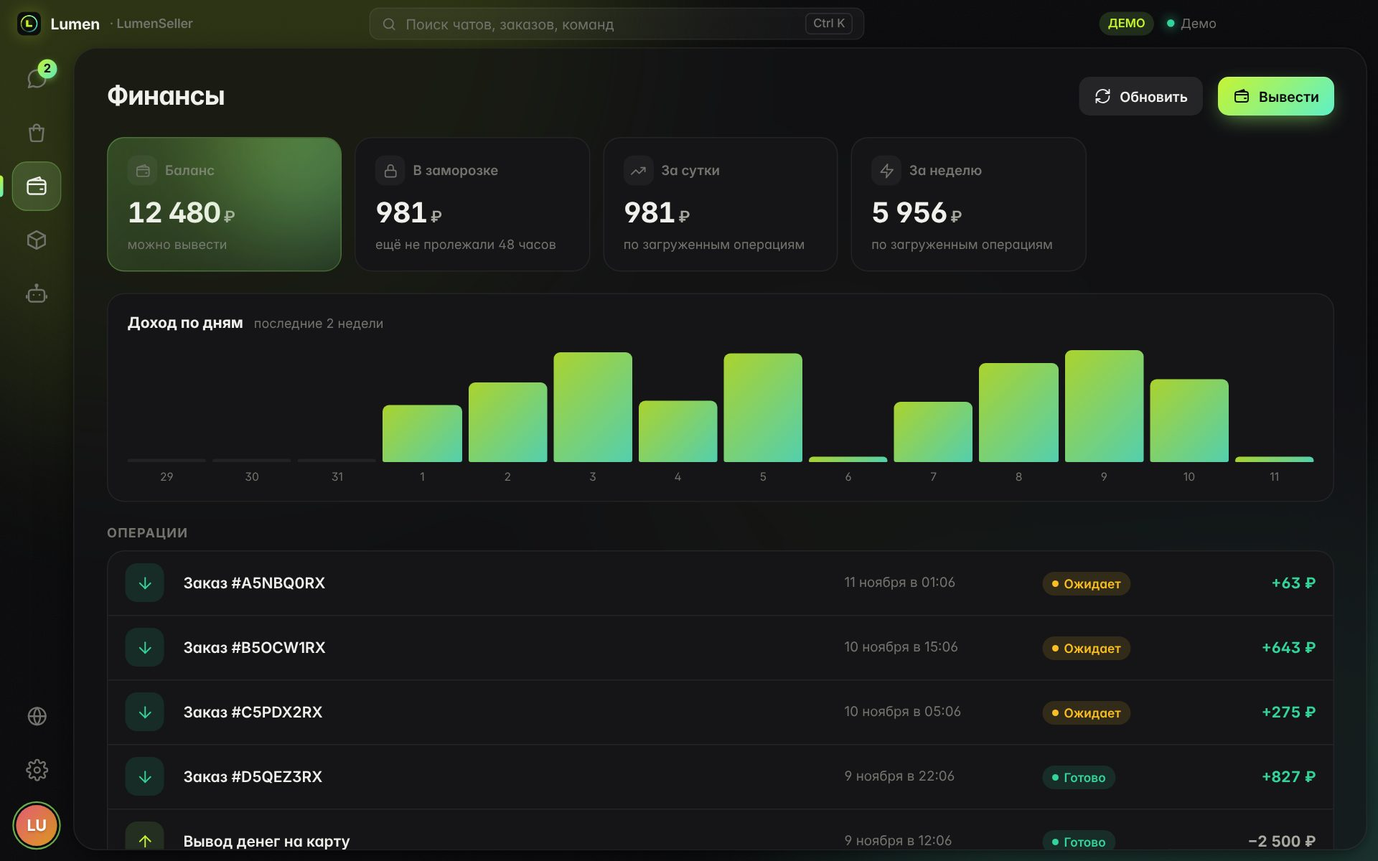
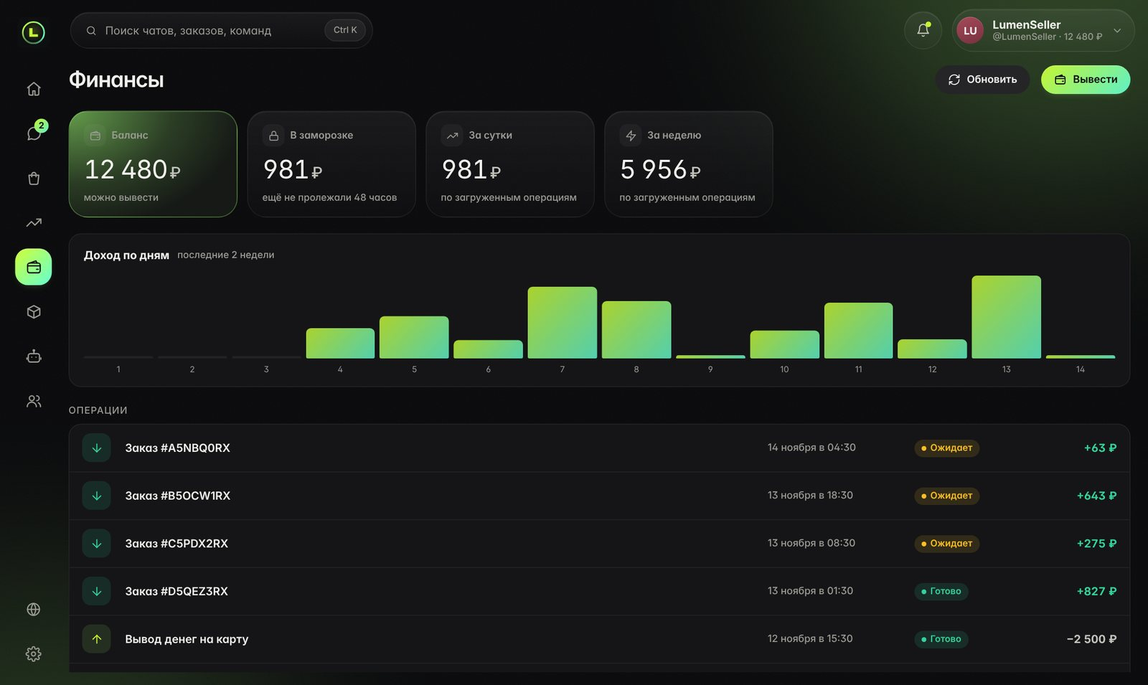
Add files via upload

diff --git a/test/parse.test.html b/test/parse.test.html
@@ -1,4 +1,5 @@
-<!doctype html><meta charset="utf-8"><title>parse tests</title>
+<!doctype html><!-- © 2026 Lumen. Все права защищены. Копирование, изменение и распространение этого кода запрещены без разрешения автора (см. LICENSE). -->
+<meta charset="utf-8"><title>parse tests</title>
 <script type="module">
 import * as P from '../renderer/js/fp/parse.js';
 import { parseFpDate, richText, findOrderIds } from '../renderer/js/core/util.js';

diff --git a/test/fp.test.js b/test/fp.test.js
@@ -1,3 +1,4 @@
+// © 2026 Lumen. Все права защищены. Копирование, изменение и распространение этого кода запрещены без разрешения автора (см. LICENSE).
 // Проверка FunPay-клиента на локальном мок-сервере: вход, куки, 428/golden_seal, runner, csrf, редиректы, загрузка.
 const http = require('http');
 const assert = require('assert');

diff --git a/test/client.test.html b/test/client.test.html
@@ -1,4 +1,5 @@
-<!doctype html><meta charset="utf-8"><title>client tests</title>
+<!doctype html><!-- © 2026 Lumen. Все права защищены. Копирование, изменение и распространение этого кода запрещены без разрешения автора (см. LICENSE). -->
+<meta charset="utf-8"><title>client tests</title>
 <script type="module">
 const calls = [];
 let raiseN = 0;

diff --git a/README.md b/README.md
@@ -6,13 +6,13 @@
 
 **Красивый клиент FunPay для компьютера**
 
-Чаты, сделки, финансы и лоты в одном окне. Автовыдача, автоответы, автоподнятие, обращения в поддержку и плагины — прямо в приложении.
+Главная со всеми продажами, чаты, сделки, статистика, финансы и лоты в одном окне. Автовыдача, автоответы, автоподнятие, обращения в поддержку и плагины — прямо в приложении.
 
 [**⬇ Скачать для Windows и macOS**](../../releases/latest) · [🧩 Плагины](docs/PLUGINS.md) · [Сообщить о баге](../../issues/new/choose)
 
 </div>
 
-![Чаты](docs/screens/chats.jpg)
+![Lumen](docs/screens/home.jpg)
 
 > [!NOTE]
 > Lumen работает с FunPay через твой аккаунт. `golden_key` и куки хранятся **только у тебя на компьютере** в зашифрованном виде и никуда не отправляются.
@@ -31,6 +31,7 @@
 - [Как устроен проект](#как-устроен-проект)
 - [Как выпустить новую версию](#как-выпустить-новую-версию)
 - [Вопросы](#вопросы)
+- [Лицензия](#лицензия)
 
 ---
 
@@ -79,46 +80,52 @@ xattr -cr /Applications/Lumen.app
 
 ## Что умеет
 
-**💬 Чаты**
-- Папки «Все / Новые / Закреплённые / Архив», поиск, плавная перестановка чатов при новых сообщениях
-- Правый клик по чату: закрепить, без звука, архив, прочитано, заметка о покупателе, цветная метка
-- В шапке чата — аватарка собеседника и лот, который он смотрит
-- Ответ с цитатой, копирование, кликабельные ссылки и номера заказов
-- Картинки: скрепка, `Ctrl+V`, перетаскивание в окно; просмотр на весь экран с зумом
-- Оповещения FunPay как карточки «Новый заказ / Выполнен / Возврат» с кнопкой «Открыть заказ»
-- **Отправить позже**: кнопка с часиками — через 15 минут, час, завтра или в своё время
-- Подгрузка старых сообщений при прокрутке вверх
+**🏠 Главная**
+- Выручка с графиком за год, 30 дней, 7 дней или сегодня — наведи, увидишь сумму и заказы за день
+- Заказы по дням недели, кошелёк с «Историей» и «Вывести», последние продажи и кто ждёт ответа
+- Карточка автоматики: работает ли, сколько выдано сегодня
+
+**💬 Чаты в три колонки**
+- Справа — покупатель: сколько заказов у тебя, сколько потратил, статус (новый, постоянный, VIP), **что оплатил прямо сейчас** и какой лот смотрит
+- Папки «Все / Новые / Закреп / Архив», поиск, заметки и цветные метки, ответ с цитатой
+- Картинки: скрепка, `Ctrl+V`, перетаскивание; просмотр на весь экран
+- **Отправить позже** — через 15 минут, час, завтра или в своё время
 
 **⚡ Шаблоны**
-- Кнопки шаблонов над полем ввода, `Alt+1…9`, поиск по `/` в начале сообщения
+- Кнопки над полем ввода, `Alt+1…9`, поиск по `/` в начале сообщения
 - Переменные: `$username` `$welcome` `$order_id` `$order_link` `$lot_name` `$my_name` `$date` `$time`
-- **Не беспокоить**: вручную или по расписанию, один автоответ в каждый чат. Не пишет, если бот или автоматика уже ответили
-- **ИИ-помощник** (по желанию): кнопка ✨ переписывает черновик вежливо. Подходит любой OpenAI-совместимый сервис
+- **Не беспокоить** вручную или по расписанию; **ИИ-помощник** ✨ (по желанию)
 
-**📦 Сделки и деньги**
-- Продажи и покупки: фильтр по статусу, поиск, подгрузка
-- Заказ: детали и описание, возврат, подтверждение, отзыв, ответ на отзыв (изменить / удалить)
-- **Статистика продаж** за сегодня / 7 дней / 30 дней / всё время: заработок, средний чек, лучший покупатель, популярный товар
-- **В поддержку**: покупатель забыл подтвердить заказ — выбираешь все заказы или только выполненные, Lumen сам отправляет обращения в поддержку FunPay (по 5 заказов в каждом)
-- Финансы: баланс, заморозка, доход за сутки и неделю, график по дням, подробности каждой операции
+**📦 Сделки**
+- Продажи и покупки: фильтр по статусу и по любой игре FunPay, поиск
+- **Мини-чат**: нажал на заказ — сбоку переписка с покупателем. Видно, выдал ли товар; можно ответить и сразу отправить в поддержку
+- **В поддержку**: покупатель забыл подтвердить заказ — Lumen сам отправит обращения в поддержку FunPay
 
-**🗂 Лоты**
-- Включить / выключить, сменить цену прямо в списке, удалить
-- Поднять одну игру или всё сразу; **автоподнятие** ждёт ровно столько, сколько просит FunPay
+**📈 Статистика**
+- Выручка, заказы, покупатели, средний чек со сравнением с прошлым периодом
+- «Когда покупают» — по часам и дням недели, топ товаров, разделы, календарь, покупатели
+
+**💰 Финансы и 🗂 Лоты**
+- Баланс, заморозка, доход по дням, все операции
+- Включить / выключить лот, сменить цену в списке, поднять всё сразу; **автоподнятие** ждёт ровно столько, сколько просит FunPay
 
 **🔔 Уведомления**
-- Свои всплывающие карточки в любом углу экрана или системные уведомления
-- Приходят, даже если сообщение уже прочитал другой бот, телефон или сайт
-- 12 звуков на выбор — отдельно для сообщений и для заказов
-- Счётчик на иконке, работа из трея, автозапуск вместе с системой
+- Колокольчик: новые заказы и отзывы, «мало товара», новости Lumen, обновления
+- Свои всплывающие карточки или системные, 12 звуков, работа из трея, автозапуск
 
 **🎨 Внешний вид**
-- Тёмная, светлая или как в системе; готовые акцентные цвета или свой цвет и оттенок фона
-- Фон «Аврора», ровный или OLED
-- Анимированные ники **Lumen FX** (частицы, плашки, значки, рамки аватарок) — видны в чатах; редактор ника в настройках
-- Несколько аккаунтов, `Ctrl+K` — поиск по чатам, заказам и командам
-- Сайт FunPay открывается прямо внутри окна (назад / вперёд / обновить)
-- Бережёт батарею: когда окно не в фокусе, анимации на паузе
+- Готовые темы и свои: сохрани вид одной кнопкой, файлом — и загрузи обратно
+- Свой фон: картинка, GIF или видео с затемнением и размытием
+- Шрифт, цвет текста, скругление, прозрачность, яркость; панель разделов слева, сверху или снизу
+- Масштаб «Авто» и чёткий текст для больших мониторов
+- Анимированные ники **Lumen FX** (частицы, плашки, значки, рамки аватарок)
+
+**🧰 Ещё**
+- Несколько аккаунтов FunPay, уведомления со всех сразу
+- **Режим для стрима** (`Ctrl+Shift+H`): ник, баланс, покупатели и номера заказов размыты
+- `Ctrl+K` — поиск по чатам, заказам и разделам; вставь ссылку на профиль — откроется профиль
+- **Бэкап и перенос**: всё в один файл и обратно на другом компьютере
+- Сайт FunPay открывается прямо внутри окна
 
 ---
 
@@ -149,9 +156,11 @@ xattr -cr /Applications/Lumen.app
 
 | | |
 |---|---|
-| ![Сделки](docs/screens/deals.jpg) | ![В поддержку](docs/screens/support.jpg) |
+| ![Чаты](docs/screens/chats.jpg) | ![Сделки](docs/screens/deals.jpg) |
+| ![Мини-чат](docs/screens/quick.jpg) | ![В поддержку](docs/screens/support.jpg) |
 | ![Статистика](docs/screens/stats.jpg) | ![Финансы](docs/screens/finance.jpg) |
-| ![Лоты](docs/screens/lots.jpg) | ![Светлая тема](docs/screens/light.jpg) |
+| ![Лоты](docs/screens/lots.jpg) | ![Внешний вид](docs/screens/themes.jpg) |
+| ![Светлая тема](docs/screens/light.jpg) | |
 
 ---
 
@@ -159,7 +168,8 @@ xattr -cr /Applications/Lumen.app
 
 | Клавиши | Действие |
 |---|---|
-| `Ctrl+K` | Поиск чатов, заказов (`#ABCD1234`) и команд |
+| `Ctrl+K` | Поиск чатов, заказов (`#ABCD1234`), разделов и профилей |
+| `Ctrl+0` | Главная |
 | `Ctrl+1…6` | Чаты · Сделки · Финансы · Лоты · Автоматика · Настройки |
 | `Ctrl+F` | Поиск по чатам |
 | `Alt+1…9` | Вставить шаблон |
@@ -167,11 +177,14 @@ xattr -cr /Applications/Lumen.app
 | `Enter` / `Shift+Enter` | Отправить / новая строка |
 | `Ctrl+V` | Вставить текст или картинку |
 | `Esc` | Закрыть окно, отменить ответ |
+| `Ctrl+Shift+H` | Режим для стрима (скрыть личное) |
 | `Ctrl+Shift+I` | Инструменты разработчика |
 
 ---
 
 ## Запуск из исходников
+
+Можно запускать из исходников **для себя**. Распространять свои сборки и изменённые версии нельзя — см. [Лицензия](#лицензия).
 
 Нужен только интернет: Node.js скачается сам.
 
@@ -213,7 +226,7 @@ lumen-desktop/
 ├─ renderer/             интерфейс приложения (HTML, CSS, JS-модули без сборщика)
 │  └─ js/
 │     ├─ fp/             account.js (все действия с FunPay) · parse.js · demo.js
-│     ├─ views/          чаты, сделки, финансы, лоты, автоматика, профиль, заказ, настройки
+│     ├─ views/          главная, чаты, сделки, статистика, финансы, лоты, автоматика, профиль, заказ, настройки
 │     ├─ features/       опрос, уведомления, шаблоны, ники Lumen FX, поднятие, отложенные,
 │     │                  «не беспокоить», поддержка, вкладки плагинов
 │     ├─ plugin-kit/     окружение для страниц плагинов (window.lumen, стили)
@@ -235,9 +248,9 @@ lumen-desktop/
 
 Всё собирается само в GitHub Actions, ничего ставить не нужно.
 
-1. Поменяй версию в `package.json`, например `"version": "1.3.0"`. **Без этого обновление не выйдет:** версия должна быть больше прошлой.
+1. Поменяй версию в `package.json`, например `"version": "1.9.1"`. **Без этого обновление не выйдет:** версия должна быть больше прошлой.
 2. Допиши, что нового, в `CHANGELOG.md` и закоммить изменения.
-3. Открой вкладку **Actions → Release → Run workflow**. Или отправь тег: `git tag v1.3.0 && git push --tags`.
+3. Открой вкладку **Actions → Release → Run workflow**. Или отправь тег: `git tag v1.9.1 && git push --tags`.
 4. Через ~10 минут в **Releases** появится версия с файлами для Windows и macOS. Все, у кого стоит Setup.exe, получат её сами.
 
 Если сборка для Mac долго висит в очереди (у GitHub бывают сбои с маками), собери `.dmg` у себя: дважды кликни **`build-mac.command`** на маке и загрузи файл из `dist` в релиз вручную.
@@ -248,7 +261,7 @@ lumen-desktop/
 
 ## Вопросы
 
-**Это безопасно?** Ключ и куки не уходят никуда, кроме funpay.com. На support.funpay.com уходит только его собственная сессия поддержки, `golden_key` туда не отправляется. Если включить ИИ-помощника, на указанный тобой адрес уходит текст переписки. Код открыт — можно проверить.
+**Это безопасно?** Ключ и куки не уходят никуда, кроме funpay.com. На support.funpay.com уходит только его собственная сессия поддержки, `golden_key` туда не отправляется. Если включить ИИ-помощника, на указанный тобой адрес уходит текст переписки. Код можно посмотреть здесь и проверить.
 
 **Антивирус ругается.** Программа без платной подписи, поэтому некоторые антивирусы осторожничают. Добавь её в исключения или собери сама из исходников.
 
@@ -261,5 +274,11 @@ lumen-desktop/
 **Нашёл баг.** [Создай issue](../../issues/new/choose) и приложи скриншот. Логи разработчика открываются по `Ctrl+Shift+I`.
 
 ---
+
+## Лицензия
+
+**© 2026 Lumen. Все права защищены.**
+
+Программой можно бесплатно пользоваться, а код — смотреть. **Копировать код, изменять его, выкладывать свои версии, продавать и использовать в других проектах запрещено** без разрешения автора. Подробно — в [LICENSE](LICENSE).
 
 <sub>Сторонние лицензии — в `NOTICE.txt`. Шрифт Inter — SIL Open Font License. Lumen не связан с FunPay.</sub>

diff --git a/CHANGELOG.md b/CHANGELOG.md
@@ -1,5 +1,36 @@
 # Что нового
 
+## 1.9.0
+
+**Полностью новый вид программы**
+- Слева — разделы с логотипом, сверху — поиск, колокольчик и твой аккаунт с ником и балансом. Карточки из стекла прямо на фоне. Панель разделов можно поставить слева, сверху или снизу и скрыть лишние разделы
+- **Главная**: выручка с графиком за год, 30 дней, 7 дней или сегодня; заказы по дням недели; кошелёк с «Историей» и «Вывести»; последние продажи и кто ждёт ответа; карточка автоматики
+- **Чаты в три колонки**: справа — покупатель: сколько заказов у тебя, сколько потратил, статус (новый, постоянный, VIP), что он **оплатил прямо сейчас** и какой лот смотрит. Ссылку на лот можно скопировать или вставить в сообщение
+- **Статистика — отдельный раздел**: выручка, заказы, покупатели, средний чек со сравнением с прошлым периодом; «Когда покупают» по часам и дням; топ товаров; разделы; календарь; покупатели; последние продажи
+- **Сделки**: мини-чат — нажал на заказ, сбоку переписка с покупателем; видно, выдал ли товар; можно ответить и сразу отправить в поддержку. Выбор игры — все игры FunPay с поиском, сверху твои. Если заказы не подтверждают больше суток — плашка «В поддержку»
+- **Автоматика**: большая кнопка включения, счётчики за сегодня, все функции списком; у автовыдачи видно, сколько товара осталось. Автоподнятие — тоже здесь
+- **Колокольчик**: новости Lumen, новые заказы и отзывы, «мало товара», обновления
+
+**Внешний вид под себя**
+- Готовые темы (в том числе розовая на чёрном и тёмно-красная) и свои темы: сохрани вид одной кнопкой, сохрани файлом и загрузи обратно
+- Свой фон: картинка, GIF или видео, с затемнением и размытием
+- Подробная настройка: шрифт, цвет текста, скругление, прозрачность карточек, яркость цвета и свечения
+- Логотип меняет цвет вместе с темой
+- Чёткий текст и масштаб «Авто» для больших мониторов (2K, 27"), масштаб 90–140%
+
+**Удобства**
+- **Несколько аккаунтов** — в меню аккаунта сверху справа
+- **Режим для стрима** (Ctrl+Shift+H): ник, баланс, покупатели и номера заказов размыты
+- **Ctrl+K** — поиск по всему; вставь ID или ссылку на профиль FunPay — откроется профиль. Ctrl+0 — Главная
+- **Бэкап и перенос**: сохранить всё в файл и загрузить на другом компьютере — вид, настройки, шаблоны, автоматика, плагины, аккаунты (по выбору)
+- Значок Lumen у ника — видно, кто из покупателей тоже в Lumen (свой значок включается в настройках)
+
+**Исправлено**
+- Двойной клик по левой панели больше не сворачивает окно
+- Подсказки не вылезают за край окна
+- Окна и крестики нажимаются в любом положении панели разделов
+- Цены лотов без лишних знаков после запятой
+
 ## 1.8.1
 - Настройки разложены понятнее: «Чаты и шаблоны» (отправка, проверка сообщений, шаблоны), «Система» (запуск, Discord, игры). Автоматика поделена на «Заказы и лоты» и «Сообщения покупателям»
 - Активность в Discord: «Играет в Lumen» с кнопкой «Скачать» (Настройки → Система)
